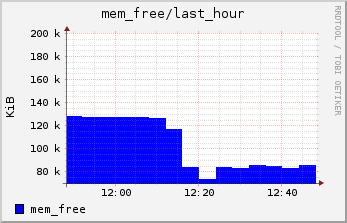
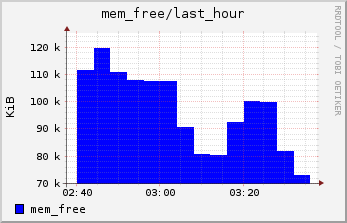
fix time on graph problem

diff --git a/ganglia/templates/ganglia/detail.html b/ganglia/templates/ganglia/detail.html
@@ -1,10 +1,17 @@
 {% extends "ganglia/base.html" %}
 
 {% block title %} 
+<div class="row">
+<div class="col-md-6 col-md-offset-3">
 <h2 align=center>
    Resource: {{ resource }}
    <small>({{resource.res_hostname}})</small>
 </h2>
+</div>
+<div class="col-md-1 col-md-offset-1">
+<small align="right"><a href="{% url 'ganglia:index' %}">Home</a></small>
+</div>
+</div>
 {% endblock %}
 
 {% block content %}

diff --git a/ganglia/templates/ganglia/metric_png.html b/ganglia/templates/ganglia/metric_png.html
@@ -1,6 +1,6 @@
 {% for metric in metric_list %}
 <div align="center" class="row">
-<div class="well well-sm col-md-9 col-xs-offset-1">
+<div class="well well-sm col-md-9 col-md-offset-1">
 <h4 align="center" class="active">{{metric.mtc_name}} graph</h4>
 </div>
 </div>

diff --git a/monitor/settings.py b/monitor/settings.py
@@ -69,7 +69,8 @@ DATABASES = {
 
 LANGUAGE_CODE = 'en-us'
 
-TIME_ZONE = 'UTC'
+TIME_ZONE = 'Asia/Shanghai'
+#'UTC'
 
 USE_I18N = True
 
